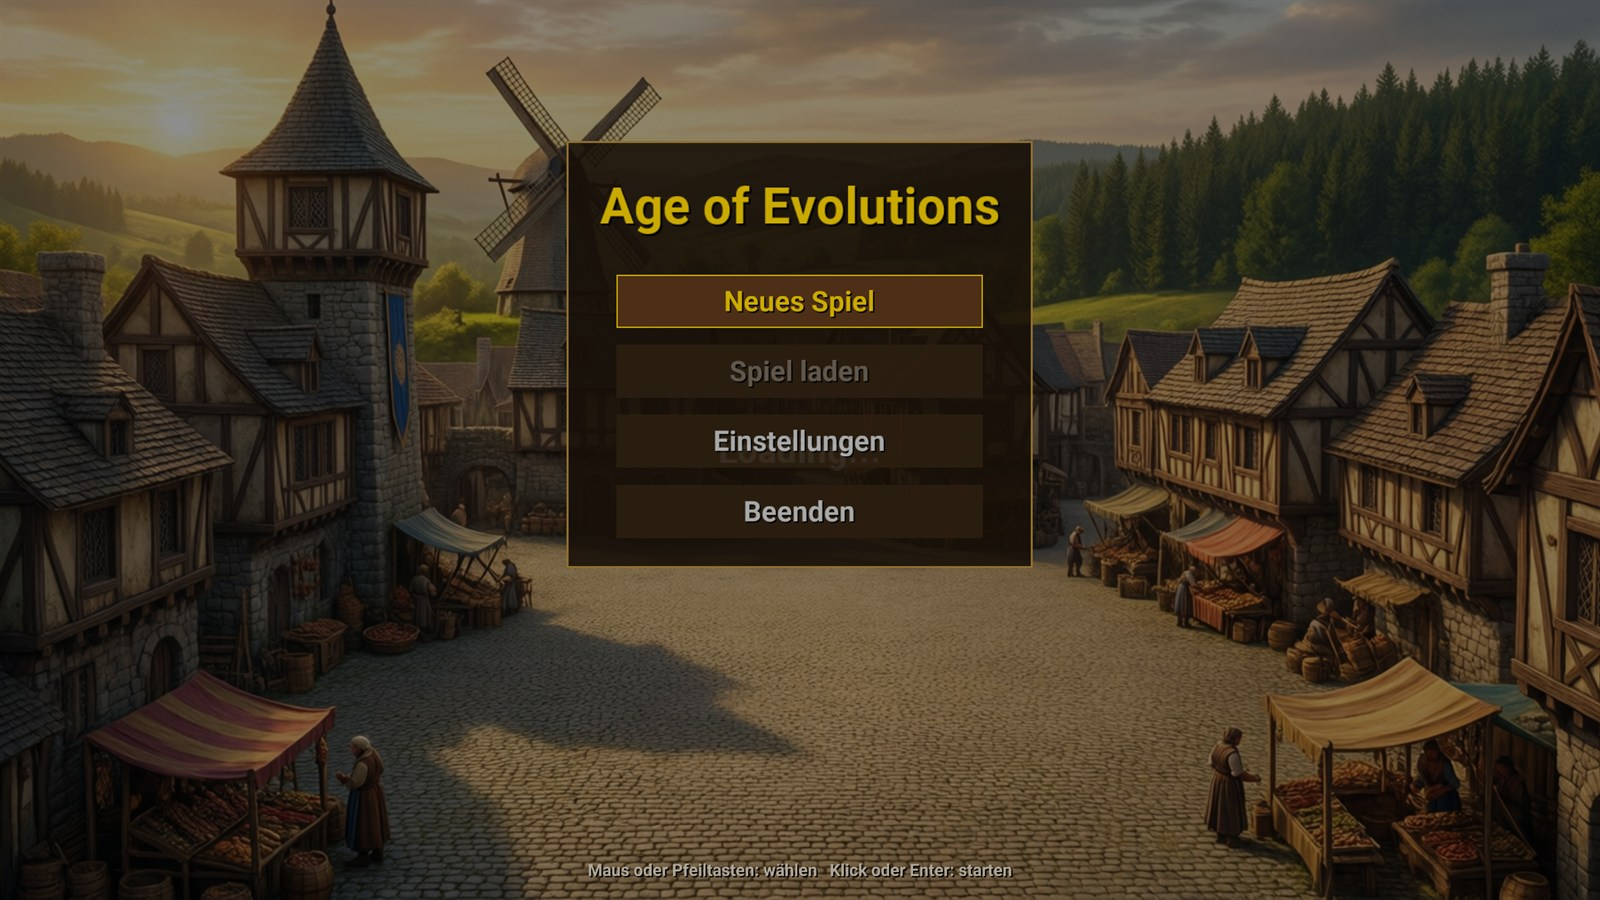
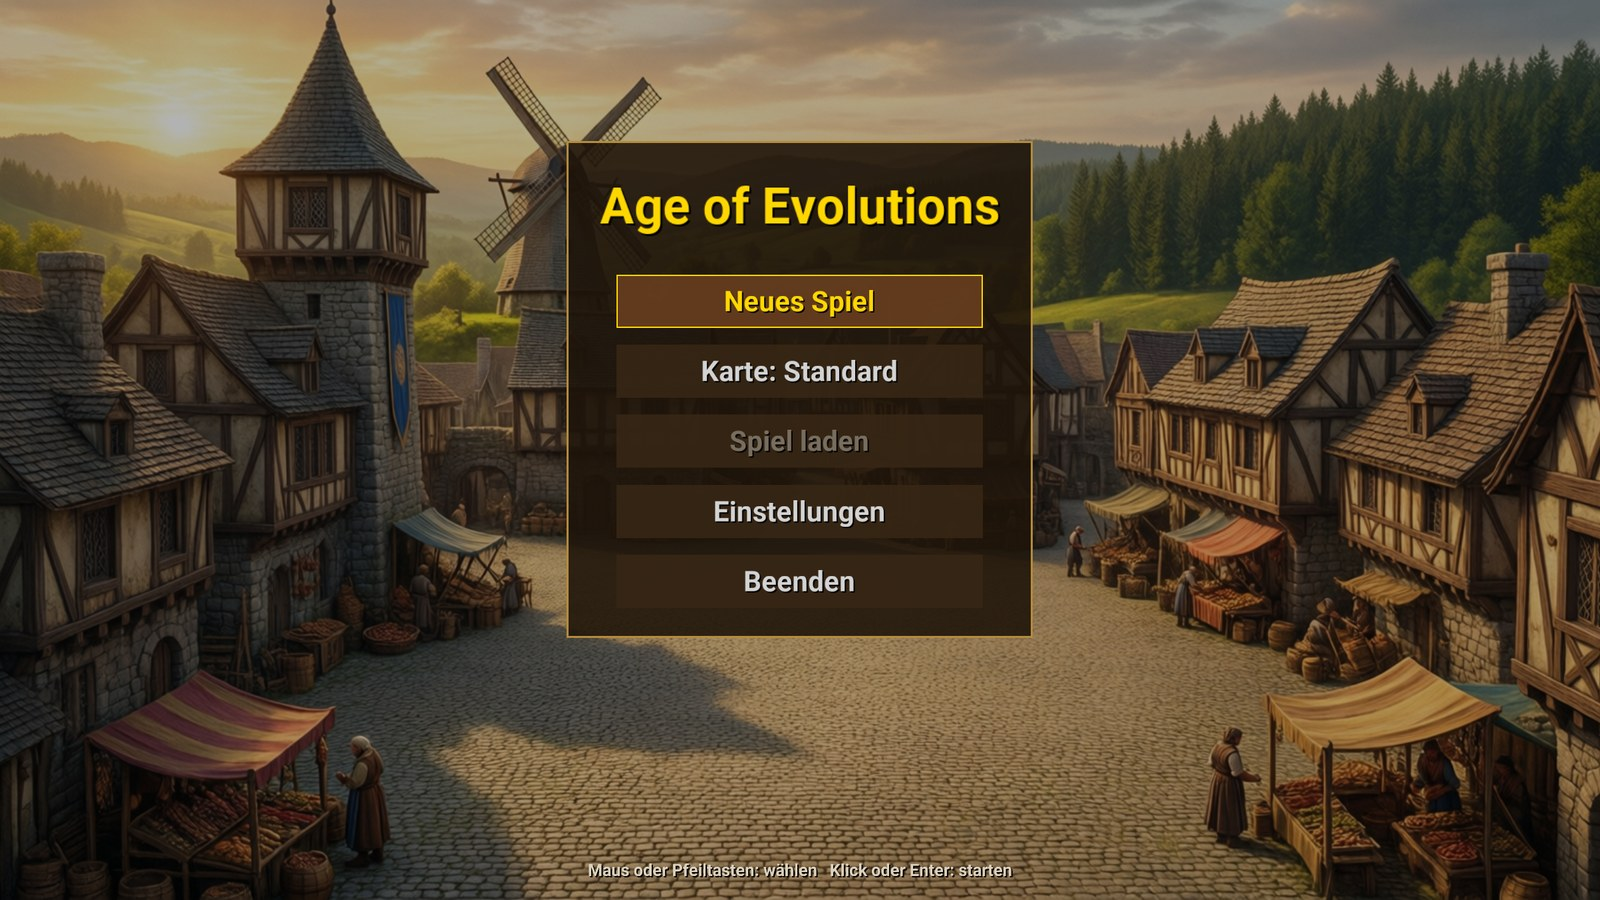
CHANGED: lifts shadow after build is finished.

diff --git a/tools/spielablauf/Program.cs b/tools/spielablauf/Program.cs
@@ -1197,7 +1197,8 @@ static void Zeitalter(List<string> verstoesse)
 // Wachturm (C4c), das erste Gebäude der Feudalzeit: in der Dunklen Zeit weder
 // Taste T noch Setzmodus, danach beides. Er kostet 50 Holz und 125 Stein und
 // sieht fertig gebaut eine Kachel, die weder ein Dorfbewohner (3 Kacheln) noch
-// ein anderes Gebäude (Stadtzentrum 5, Haus und Lager 3) sehen kann.
+// ein anderes Gebäude (Stadtzentrum 5, Haus und Lager 3) sehen kann - halb gebaut
+// noch nicht: eine Baustelle deckt keinen Nebel auf (C7b).
 static void Turm(int karte, List<string> verstoesse)
 {
     string wer = $"Karte {karte}, Wachturm";
@@ -1240,6 +1241,28 @@ static void Turm(int karte, List<string> verstoesse)
     if (w.P1.Resources[Resource.Wood] != holz - 50 || w.P1.Resources[Resource.Stone] != stein - 125)
         verstoesse.Add($"{wer}: Holz {holz} -> {w.P1.Resources[Resource.Wood]}, Stein {stein} -> "
                        + $"{w.P1.Resources[Resource.Stone]} - erwartet 50 Holz und 125 Stein");
+    // Prüfkachel 7 bis 9 Kacheln von der Turmmitte, außer Sicht von allem anderen
+    var mitte = new Vector2(turm.Core.Position.X, turm.Core.Position.Y);
+    Vector2? Pruefkachel()
+    {
+        var andere = w.Map.Buildings.Where(b => b != turm && b.OwnerId == 0)
+            .Select(b => (Ort: new Vector2(b.Core.Position.X, b.Core.Position.Y), Weit: b.Core.Stats.VisionRange + 1.5f)).ToList();
+        var einheiten = w.Dorfbewohner().Select(u => w.Map.WorldToGrid(u.Position)).ToList();
+        return Enumerable.Range(0, w.Map.Width).SelectMany(x => Enumerable.Range(0, w.Map.Height).Select(y => new Vector2(x, y)))
+            .Where(c => Vector2.Distance(c, mitte) is >= 7f and <= 9f
+                        && einheiten.All(e => Vector2.Distance(c, e) > 5f)
+                        && andere.All(b => Vector2.Distance(c, b.Ort) > b.Weit))
+            .Cast<Vector2?>().FirstOrDefault();
+    }
+
+    // Halb gebaut sieht der Turm noch nichts
+    w.LaufeBis(() => turm.Construction.Progress >= 0.5f, 90f);
+    w.Map.UpdateFogOfWarForPlayer(0, w.Map.Units);
+    var halb = Pruefkachel();
+    if (halb != null && w.Map.IsTileVisible((int)halb.Value.X, (int)halb.Value.Y, 0))
+        verstoesse.Add($"{wer}: Baustelle bei {turm.Construction.Progress * 100:0} % deckt schon Kachel {halb.Value} "
+                       + $"({Vector2.Distance(halb.Value, mitte):0.0} vom Turm) auf - Sicht erst fertig gebaut");
+
     float bauzeit = w.LaufeBis(() => turm.IsComplete, 90f);
     if (!turm.IsComplete)
     {
@@ -1247,24 +1270,17 @@ static void Turm(int karte, List<string> verstoesse)
         return;
     }
 
-    // Prüfkachel 7 bis 9 Kacheln von der Turmmitte, außer Sicht von allem anderen
     w.Map.UpdateFogOfWarForPlayer(0, w.Map.Units);
-    var mitte = new Vector2(turm.Core.Position.X, turm.Core.Position.Y);
-    var andere = w.Map.Buildings.Where(b => b != turm && b.OwnerId == 0)
-        .Select(b => (Ort: new Vector2(b.Core.Position.X, b.Core.Position.Y), Weit: b.Core.Stats.VisionRange + 1.5f)).ToList();
-    var einheiten = w.Dorfbewohner().Select(u => w.Map.WorldToGrid(u.Position)).ToList();
-    var probe = Enumerable.Range(0, w.Map.Width).SelectMany(x => Enumerable.Range(0, w.Map.Height).Select(y => new Vector2(x, y)))
-        .Where(c => Vector2.Distance(c, mitte) is >= 7f and <= 9f
-                    && einheiten.All(e => Vector2.Distance(c, e) > 5f)
-                    && andere.All(b => Vector2.Distance(c, b.Ort) > b.Weit))
-        .Cast<Vector2?>().FirstOrDefault();
+    var probe = Pruefkachel();
     if (probe == null)
         Console.WriteLine($"      {wer}: keine Prüfkachel außer Sicht der übrigen - Sichttest übersprungen");
     else if (!w.Map.IsTileVisible((int)probe.Value.X, (int)probe.Value.Y, 0))
         verstoesse.Add($"{wer}: Kachel {probe.Value} ({Vector2.Distance(probe.Value, mitte):0.0} vom Turm) nicht in Sicht");
 
     if (verstoesse.Count == vorher)
-        Console.WriteLine($"  ok  {wer}: erst ab der Feudalzeit, 50 Holz + 125 Stein, fertig nach {bauzeit:0} s, sieht {(probe == null ? "-" : Vector2.Distance(probe.Value, mitte).ToString("0.0"))} Kacheln weit");
+        Console.WriteLine($"  ok  {wer}: erst ab der Feudalzeit, 50 Holz + 125 Stein, halb gebaut ohne Sicht"
+                          + $"{(halb == null ? " (ungeprüft)" : "")}, fertig nach {bauzeit:0} s, sieht "
+                          + $"{(probe == null ? "-" : Vector2.Distance(probe.Value, mitte).ToString("0.0"))} Kacheln weit");
 }
 
 // Kartengrößen (C11): Standard 64, Groß 90, Maximal 128 Kacheln Seitenlänge; beide

diff --git a/tools/ollama-agent/checks/d23_readme_zeitalter.py b/tools/ollama-agent/checks/d23_readme_zeitalter.py
@@ -1,0 +1,52 @@
+"""Abnahme D23: das README zeigt die Zeitalter - neue Aufnahmen und ihre Bildtexte.
+
+Momentaufnahme wie alle Doku-Prüfungen: die Spielszene zeigt seit C4g das Langhaus
+der Dunklen Zeit mit Mühle, Haus und beiden Lagern, das neue Bild zeitalter.jpg
+dieselbe Siedlung in allen vier Zeitaltern. Geprüft wird, dass Alternativtext und
+Bildunterschrift das Gezeigte nennen und Spielstand und Grafik den Wechsel kennen.
+"""
+
+import re
+import sys
+from pathlib import Path
+
+sys.path.insert(0, str(Path(__file__).resolve().parent))
+from _cs import melde  # noqa: E402
+
+readme = Path("README.md").read_text(encoding="utf-8-sig")
+fehler = []
+
+
+def abschnitt(bild):
+    """Alternativtext und die Bildunterschrift (kursive Zeile) direkt danach."""
+    m = re.search(rf"!\[([^\]]*)\]\({re.escape(bild)}\)\s*\n\s*\n\*([^*]+)\*", readme)
+    return (m.group(1) + " " + m.group(2)) if m else None
+
+
+if not Path("docs/bilder/zeitalter.jpg").is_file():
+    fehler.append("docs/bilder/zeitalter.jpg fehlt")
+zeit = abschnitt("docs/bilder/zeitalter.jpg")
+if zeit is None:
+    fehler.append("zeitalter.jpg: Bild mit kursiver Bildunterschrift darunter fehlt")
+else:
+    for begriff in ("vier Zeitalter", "Dorfbewohner", "Langhaus", "Burg"):
+        if begriff.lower() not in zeit.lower():
+            fehler.append(f"zeitalter.jpg: Alternativtext oder Bildunterschrift nennt '{begriff}' nicht")
+szene = abschnitt("docs/bilder/spielszene.jpg")
+if szene is None:
+    fehler.append("spielszene.jpg: Bild mit kursiver Bildunterschrift darunter fehlt")
+else:
+    for begriff in ("Dunklen Zeit", "Langhaus", "Mühle", "Lager"):
+        if begriff.lower() not in szene.lower():
+            fehler.append(f"spielszene.jpg: Alternativtext oder Bildunterschrift nennt '{begriff}' nicht")
+if "wächst schon grün nach" in readme:
+    fehler.append("die Spielszene beschreibt noch eine nachwachsende Kachel, die das neue Bild nicht zeigt")
+
+stand = readme.split("## Spielstand", 1)[-1].split("\n## ", 1)[0]
+if not re.search(r"Zeitalter[^\n]*Gebäude und Dorfbewohner", stand):
+    fehler.append("Spielstand: dass Gebäude und Dorfbewohner je Zeitalter anders aussehen, fehlt")
+grafik = readme.split("## Grafik", 1)[-1].split("\n## ", 1)[0]
+if "je Zeitalter" not in grafik:
+    fehler.append("Grafik: 'je Zeitalter' fehlt")
+
+melde(fehler, "D23 erfuellt: README zeigt die vier Zeitalter, Bildtexte passen zu den neuen Aufnahmen")

diff --git a/tests/AoE.Tests/FogOfWarTests.cs b/tests/AoE.Tests/FogOfWarTests.cs
@@ -108,6 +108,40 @@ public class FogOfWarTests
     }
 
     [Fact]
+    public void Baustelle_SpendetNochKeineSicht()
+    {
+        var map = Karte();
+        var sicht = new VisibilitySystem(map);
+
+        // Die Baustelle steht schon auf der Karte und sperrt ihre Kacheln,
+        // deckt aber nichts auf - auch nicht ihre eigene Kachel
+        var zentrum = BuildingEntity.CreateTownCenter(0, new Position(10, 10));
+        zentrum.IsUnderConstruction = true;
+        map.AddBuilding(zentrum);
+        sicht.UpdateVisibility(playerId: 0);
+
+        Assert.Equal(TileVisibility.Unexplored, map.GetTile(10, 10)!.GetVisibility(0));
+        Assert.Equal(TileVisibility.Unexplored, map.GetTile(15, 10)!.GetVisibility(0));
+    }
+
+    [Fact]
+    public void FertigGebauteBaustelle_SpendetSicht()
+    {
+        var map = Karte();
+        var sicht = new VisibilitySystem(map);
+        var zentrum = BuildingEntity.CreateTownCenter(0, new Position(10, 10));
+        zentrum.IsUnderConstruction = true;
+        map.AddBuilding(zentrum);
+        sicht.UpdateVisibility(playerId: 0);
+
+        zentrum.IsUnderConstruction = false;
+        sicht.UpdateVisibility(playerId: 0);
+
+        Assert.Equal(TileVisibility.Visible, map.GetTile(10, 10)!.GetVisibility(0));
+        Assert.Equal(TileVisibility.Visible, map.GetTile(15, 10)!.GetVisibility(0));
+    }
+
+    [Fact]
     public void SichtIstProSpielerGetrennt()
     {
         var map = Karte();

diff --git a/src/AoE.Core/Map/VisibilitySystem.cs b/src/AoE.Core/Map/VisibilitySystem.cs
@@ -169,9 +169,10 @@ public sealed class VisibilitySystem
 
         // Gebäude sehen ihre Umgebung wie Einheiten. Ohne das läge das eigene
         // Stadtzentrum im Nebel, sobald kein Dorfbewohner daneben steht.
+        // Baustellen sehen noch nichts - erst das fertige Gebäude deckt auf.
         foreach (var building in _map.GetBuildings())
         {
-            if (building.OwnerId == playerId && building.IsAlive)
+            if (building.OwnerId == playerId && building.IsAlive && !building.IsUnderConstruction)
                 MarkVisible(visible, building.Position, building.Stats.VisionRange);
         }
         

diff --git a/src/AoE.Core/Entities/Buildings.cs b/src/AoE.Core/Entities/Buildings.cs
@@ -137,6 +137,13 @@ public sealed class BuildingEntity : UnitEntity
     /// Ist das Gebäude beschäftigt?
     /// </summary>
     public bool IsBusy { get; set; }
+
+    /// <summary>
+    /// Noch Baustelle: das Gebäude steht schon auf der Karte und sperrt seine
+    /// Kacheln, sieht aber nichts - Sicht spendet es erst fertig gebaut
+    /// (<see cref="AoE.Core.Map.VisibilitySystem"/>).
+    /// </summary>
+    public bool IsUnderConstruction { get; set; }
     
     public BuildingEntity(
         BuildingType type, 

diff --git a/AgeOfEvolutions/AgeOfEvolutions.Core/Data/TileMap.cs b/AgeOfEvolutions/AgeOfEvolutions.Core/Data/TileMap.cs
@@ -1082,6 +1082,11 @@ public class TileMap
             _registeredUnits.Add(unit.Core);
         }
 
+        // Baustellen sehen noch nichts. AoE.Core kennt die Baustelle selbst nicht,
+        // nur ob das Gebäude im Bau ist - das wird vor jeder Sichtrechnung abgeglichen
+        foreach (var building in Buildings)
+            building.Core.IsUnderConstruction = !building.IsComplete;
+
         _visibility.UpdateVisibility(playerId);
     }
 

diff --git a/TODO.md b/TODO.md
@@ -10,13 +10,23 @@ Dorfbewohner kleiden sich nach dem Zeitalter; beides wechselt, sobald der Besitz
 Uncommittet im Arbeitsbaum; Commit macht der Nutzer.
 
 Alles baut und läuft: `dotnet build AgeOfEvolutions.slnx` (0 Fehler, 0 Warnungen),
-`dotnet test tests/AoE.Tests` → **157/157 grün**.
+`dotnet test tests/AoE.Tests` → **159/159 grün**.
 
 Der Stand vom 2026-09-23 ist mit `4cb57d4` committet, alles bis zu den Gebäude-Sprites
 mit `4f85314` (2026-10-03). Commits macht der Nutzer selbst.
 
 Zuletzt fertiggestellt:
 
+- **README-Bilder (2026-10-04)** — Hauptmenü, Spielszene und Karte neu aufgenommen, dazu
+  `docs/bilder/zeitalter.jpg`: dieselbe Siedlung in allen vier Zeitaltern. Aufgenommen im
+  Fenstermodus - im Vollbild liefert `checks/_fenster.ps1` nur ein eingefrorenes, fast
+  schwarzes erstes Bild *(D23)*
+- **Baustellen ohne Sicht (2026-10-04)** — eine Baustelle deckte den Nebel sofort mit der
+  vollen Sichtweite des fertigen Gebäudes auf, ein Wachturm-Fundament also 10 Kacheln weit
+  (Hinweis des Nutzers). Jetzt spendet erst das fertige Gebäude Sicht:
+  `BuildingEntity.IsUnderConstruction` in AoE.Core, abgeglichen vor jeder Sichtrechnung
+  (`TileMap.UpdateFogOfWarForPlayer`). Zwei Tests in `FogOfWarTests`, dazu prüft die Gruppe
+  `turm` in `tools/spielablauf` den halb gebauten Turm *(C7b)*
 - **Dorfbewohner je Zeitalter (2026-10-04)** — dieselbe Figur, je Zeitalter umgekleidet:
   Kittel und Strohhut, dann Tunika mit Lederwams, Gürteltasche und Filzkappe, dann
   gepolstertes Wams mit grauer Gugel, zuletzt Wams mit Puffärmeln, weißem Kragen und
@@ -249,7 +259,7 @@ benennt jemand eine Methode um, meldet es das, statt still falsch zu prüfen.
 | Projekt | Framework | Build | Bemerkung |
 |---|---|---|---|
 | `src/AoE.Core` | net10.0 | OK, 0 Fehler | Reine Logik, keine MonoGame-Abhängigkeit |
-| `tests/AoE.Tests` | net10.0 | **157/157 grün** | Einheiten und Ressourcen (15), Sammelauftrag (21), Ausbildung und Bevölkerung (22), Bauen (39), Zeitalter (46), Konter-Dreieck (5), Wegfindung (3), Nebel (6) |
+| `tests/AoE.Tests` | net10.0 | **159/159 grün** | Einheiten und Ressourcen (15), Sammelauftrag (21), Ausbildung und Bevölkerung (22), Bauen (39), Zeitalter (46), Konter-Dreieck (5), Wegfindung (3), Nebel (8) |
 | `demo/DemoApp` | net10.0 | OK | referenziert AoE.Core |
 | `AgeOfEvolutions.Core` | net10.0 | OK, 0 Fehler | Dateiname seit H2 kanonisch |
 | `AgeOfEvolutions.DesktopGL` | net10.0 | OK, 0 Fehler / 0 Warnungen | startbar |
@@ -707,6 +717,8 @@ Laut Spec Punkt 6: ohne das hat eine Partie kein natürliches Ende.
 
 - [x] Nebel des Krieges: unerforscht schwarz, erforscht abgedunkelt, fremde Einheiten
       nur in Sicht; ein Klick in den Nebel ist ein Laufbefehl *(Agent C7n)*
+- [x] Baustellen decken keinen Nebel auf, Sicht spendet erst das fertige Gebäude
+      (`BuildingEntity.IsUnderConstruction`) *(Agent C7b)*
 - [x] Bäume als prozedurale Pixel-Art — bestand schon (`BuildForestTexture`, `DrawTree`)
 - [x] Beeren, Stein, Goldminen als Textur statt Farbfläche — bestand schon
       (`BuildBerryTexture`, `BuildMountainTexture`, `BuildGoldTexture`)
@@ -848,7 +860,7 @@ Enthält reines Azure-Boilerplate ohne jeden Bezug zum Projekt.
 - [x] .NET-10-Migration: AoE.Core, Tests, Demo, Spiel-Core, DesktopGL, WindowsDX
 - [x] Build läuft fehlerfrei durch (AoE.Core + DesktopGL, 0 Warnungen)
 - [x] AoE.Core als Projektverweis eingebunden *(seit Block B im Spiel genutzt)*
-- [x] 157 Unit-Tests grün
+- [x] 159 Unit-Tests grün
 - [x] Kartengenerierung `TileMap.cs`: Seen mit Falloff, Beeren, Schafe, Wildschweine,
       Stein/Gold, PvP-Startpositionen
 - [x] Wasser-Animation

diff --git a/README.md b/README.md
@@ -4,15 +4,20 @@ Ein Age-of-Empires-I-artiges Echtzeitstrategiespiel, implementiert in C# mit Mon
 
 ![Hauptmenü](docs/bilder/hauptmenue.jpg)
 
-![Am Stadtzentrum: ein Feld mit Weizen, ein Dorfbewohner bei der Ernte, Schafe und ein Reh](docs/bilder/spielszene.jpg)
+![Am Stadtzentrum der Dunklen Zeit: ein Feld mit Weizen, ein Dorfbewohner bei der Ernte, Mühle, Haus und Lager, Schafe und Rehe](docs/bilder/spielszene.jpg)
 
-*Am Stadtzentrum: ein Dorfbewohner erntet das Feld, eine abgeerntete Kachel wächst schon grün nach;
-daneben grasen Schafe und ein Reh, rundherum noch Nebel.*
+*In der Dunklen Zeit ist das Stadtzentrum ein strohgedecktes Langhaus: ein Dorfbewohner erntet das Feld,
+daneben stehen Mühle, Haus, Holzfäller- und Bergbaulager; Schafe und Rehe grasen, rundherum noch Nebel.*
 
 ![Kartenausschnitt ohne Nebel](docs/bilder/karte.jpg)
 
 *Ein Kartenausschnitt, für die Aufnahme ohne Nebel: Wald, zwei Seen mit Strand, Steinbrüche, Goldadern
 und Schafe auf der Wiese.*
+
+![Dieselbe Siedlung in den vier Zeitaltern](docs/bilder/zeitalter.jpg)
+
+*Dieselbe Siedlung in allen vier Zeitaltern: Gebäude und Kleidung der Dorfbewohner wechseln mit dem
+Aufstieg — vom Langhaus mit Strohdach über Holzbau und Burg bis zum Rathaus aus hellem Haustein.*
 
 ## Spielstand
 
@@ -21,7 +26,8 @@ Spielbar ist die Wirtschaft der Dunklen Zeit und der Aufstieg durch die Zeitalte
 - Dorfbewohner sammeln Nahrung, Holz, Gold und Stein und liefern selbstständig ab
 - Bauen: Haus, Mühle, Holzfällerlager, Bergbaulager, Farm; ab der Feudalzeit der Wachturm
 - Ausbildung im Stadtzentrum, Bevölkerungsgrenze aus den Gebäuden
-- Zeitalter: Feudal-, Ritter- und Imperialzeit, je mit Kosten und Forschungszeit
+- Zeitalter: Feudal-, Ritter- und Imperialzeit, je mit Kosten und Forschungszeit; Gebäude und Dorfbewohner
+  sehen in jedem Zeitalter anders aus
 - Nebel des Krieges, Minimap, Zoom und Kamera
 - Drei Kartengrößen, im Hauptmenü wählbar: Standard (64×64), Groß (90×90), Maximal (128×128)
 
@@ -83,8 +89,8 @@ dotnet test tests/AoE.Tests/AoE.Tests.csproj
 
 ## Grafik
 
-Menübild, Tastensymbole, Gebäude, Dorfbewohner, Boden, Felder, Bäume, Stein, Gold, Schafe und Rehe sind
-mit Qwen-Image erzeugt,
+Menübild, Tastensymbole, Gebäude und Dorfbewohner je Zeitalter, Boden, Felder, Bäume, Stein, Gold, Schafe,
+Rehe, Kaninchen und Wildschweine sind mit Qwen-Image erzeugt,
 lokal über ComfyUI. Prompts, Seeds und die Werkzeuge dafür liegen in `tools/bilder`, jedes
 Bild lässt sich damit genau so wieder erzeugen; Einzelheiten in der
 [Projektstruktur](docs/PROJEKT_STRUKTUR.md#grafik).
